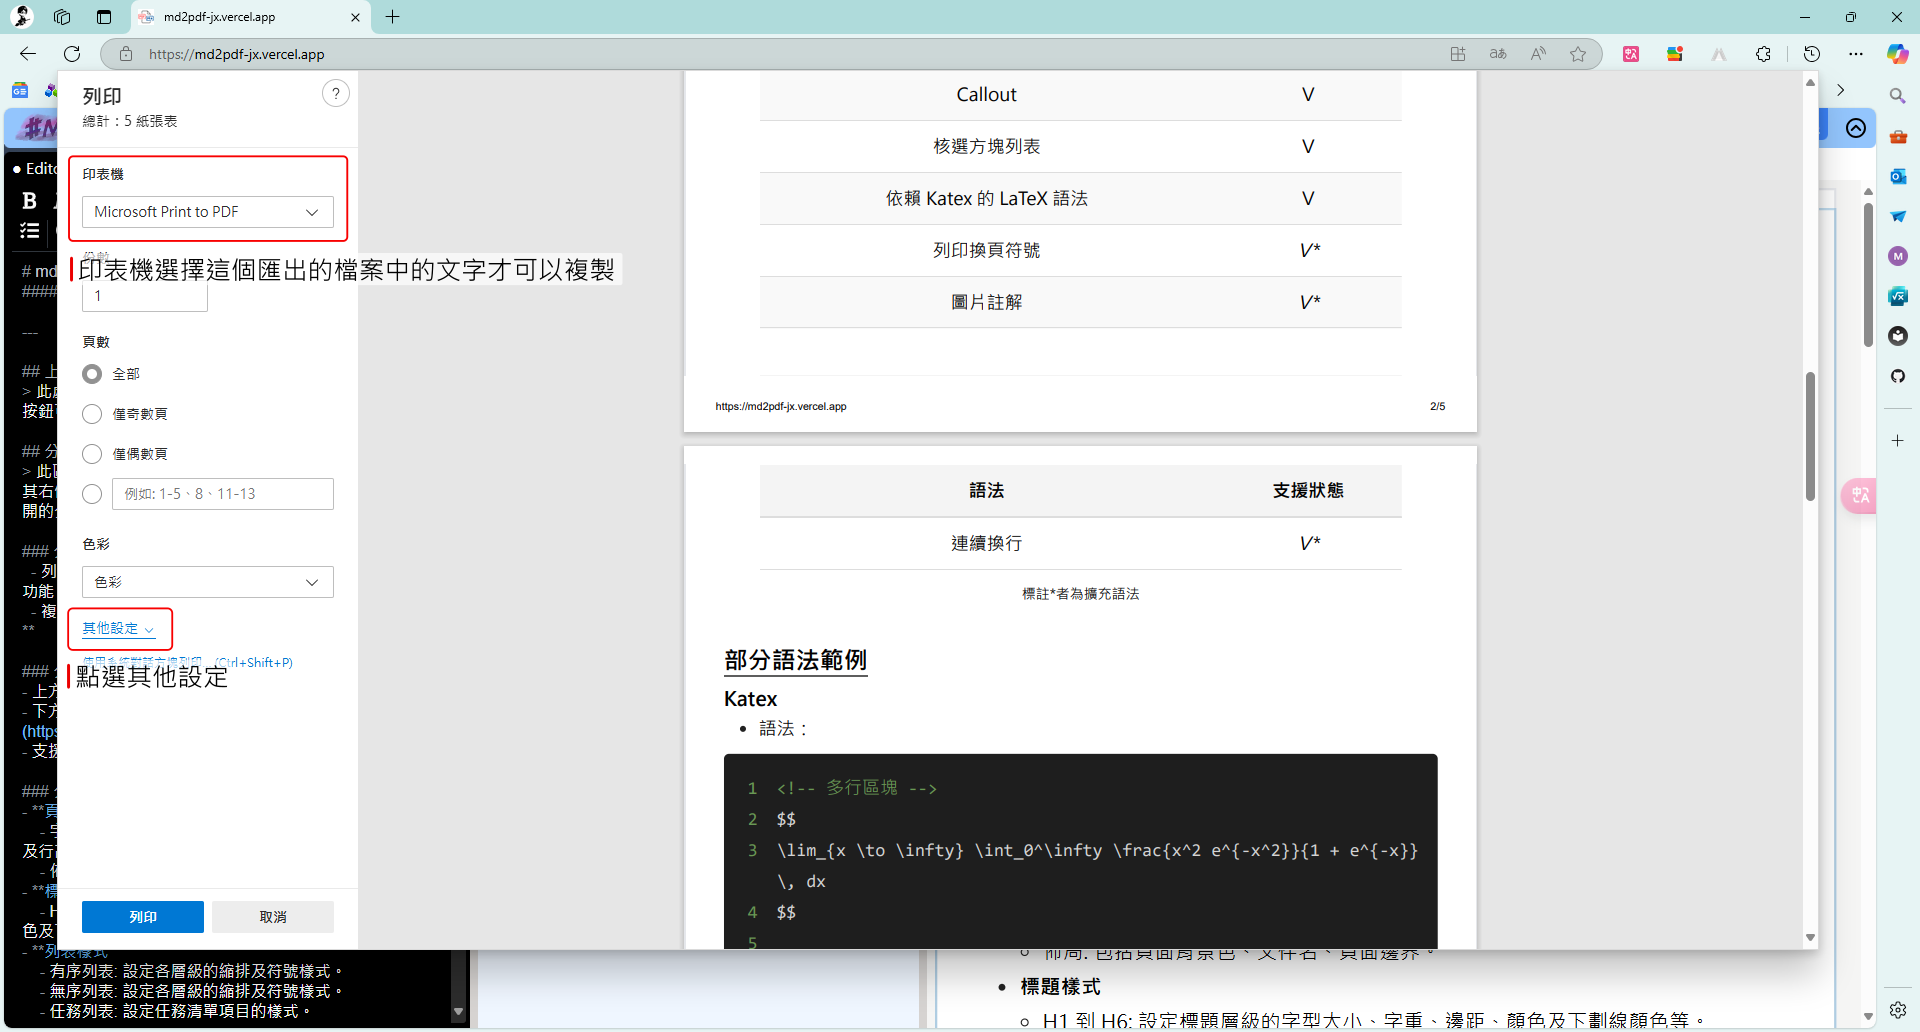
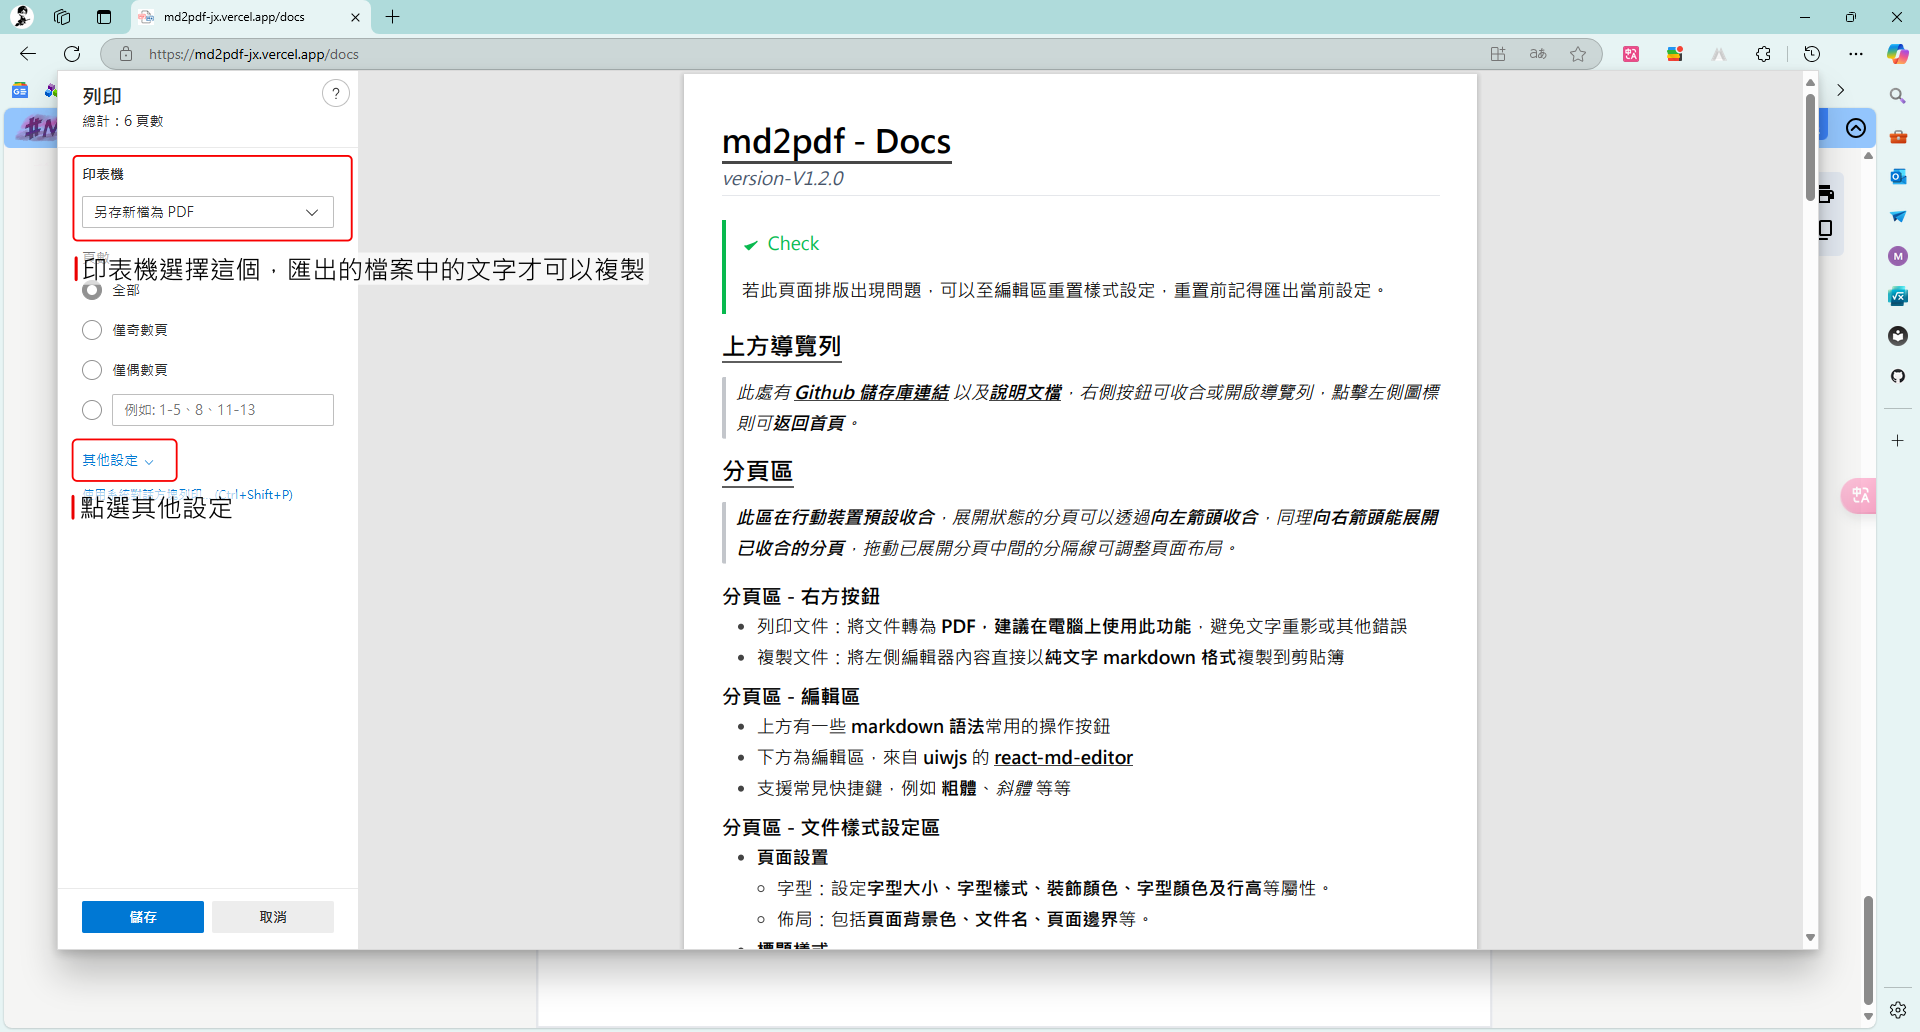
列印說明更新

diff --git a/src/pages/DocsPage.tsx b/src/pages/DocsPage.tsx
@@ -182,12 +182,12 @@ $$
 > 此範例在 **windows 11 中的 Edge 瀏覽器下演示**，不同操作系統或瀏覽器可能會有不同
 >
 
-![注意事項1](https://i.imgur.com/VdIpN5W.png)
-![注意事項2](https://i.imgur.com/5xTlIJp.png)
+![注意事項1](https://i.imgur.com/5JHAKo4.png)
+![注意事項2](https://i.imgur.com/iInw4G4.png)
 << 此圖片上下部分為不同設定所呈現的結果
 
 > [!note]
-> 若邊界設定為預設值，仍可透過取消勾選「頁首與頁尾」來隱藏頁碼
+> 若勾選「頁首與頁尾」但仍未出現頁碼可先檢查頁面樣式設定中的下邊界是否設定過小
 >
 
 `
